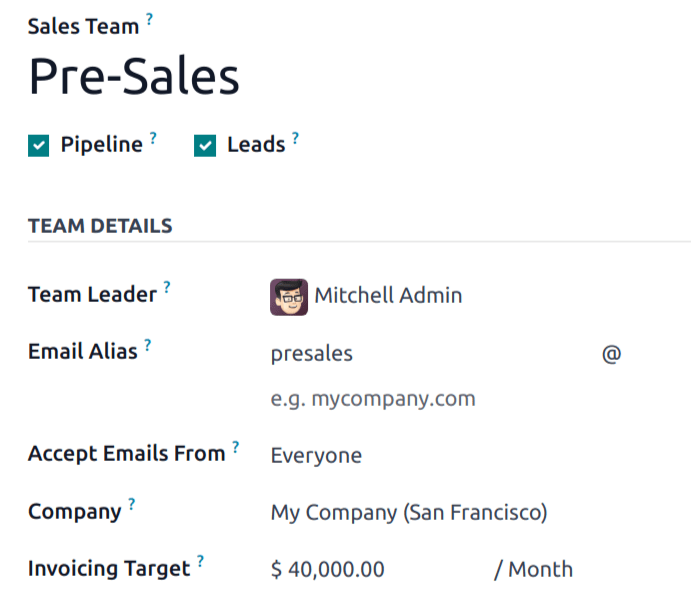
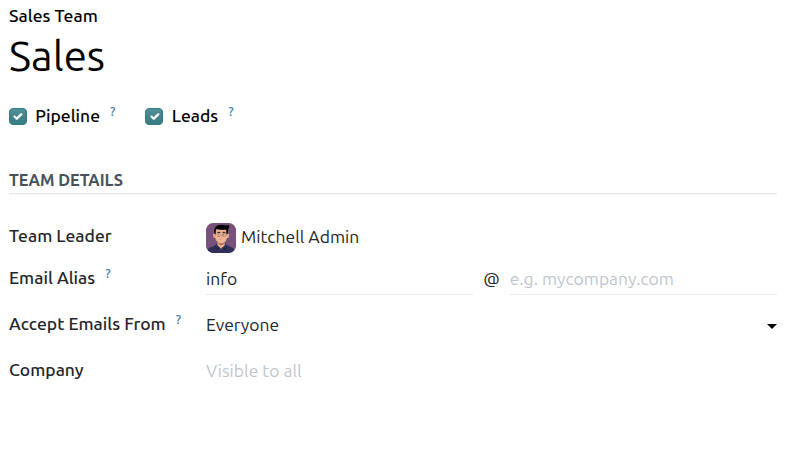
[FIX] CRM: Invoicing field language removal
X-original-commit: 006c9e2a8272bb2a22537e558999e937c55189dc

diff --git a/content/applications/sales/crm/pipeline/manage_sales_teams.rst b/content/applications/sales/crm/pipeline/manage_sales_teams.rst
@@ -39,12 +39,6 @@ leads first.
 .. image:: manage_sales_teams/sales-team-creation.png
    :alt: The settings page for a new sales team.
 
-.. note::
-   If the **Sales** app is installed on the database, an :guilabel:`Invoicing Target` field appears
-   on the sales team form. This is the revenue target for the current month. The amount entered in
-   this field is used to populate the invoicing progress bar on the :ref:`sales team dashboard
-   <crm/manage_sales_teams/sales-team-dashboard>`.
-
 Add sales team members
 ----------------------
 
